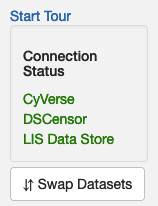
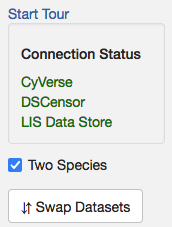
Toggle species 2 display and related functions (for "original ZBrowse" mode)

diff --git a/README.md b/README.md
@@ -68,6 +68,10 @@ The Start Tour link (in the Manage tab) launches a guided tour (or tutorial) of 
 
 This panel (also in the Manage tab) indicates when remote data sources are unavailable, relieving user angst.
 
+#### Two Species
+
+Toggles display of Species 2, macrosynteny, and genomic linkages (for &ldquo;original ZBrowse&rdquo; mode).
+
 #### Swap Datasets
 
 Exchanges Species 1 and Species 2.
